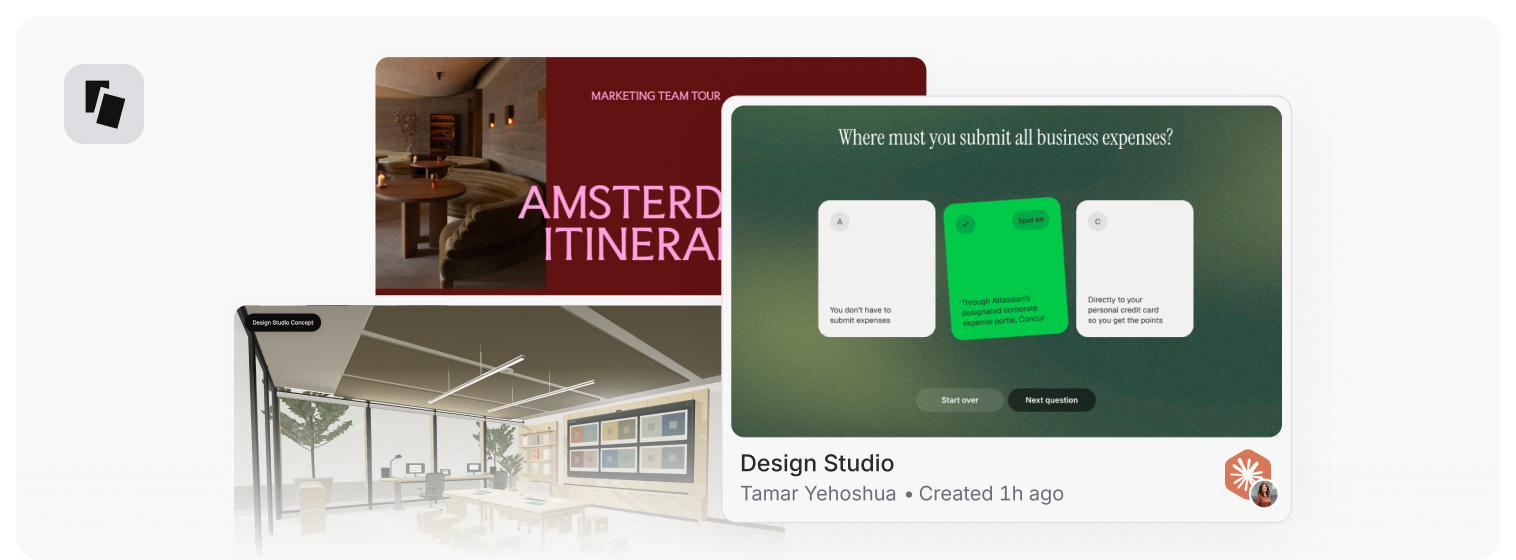
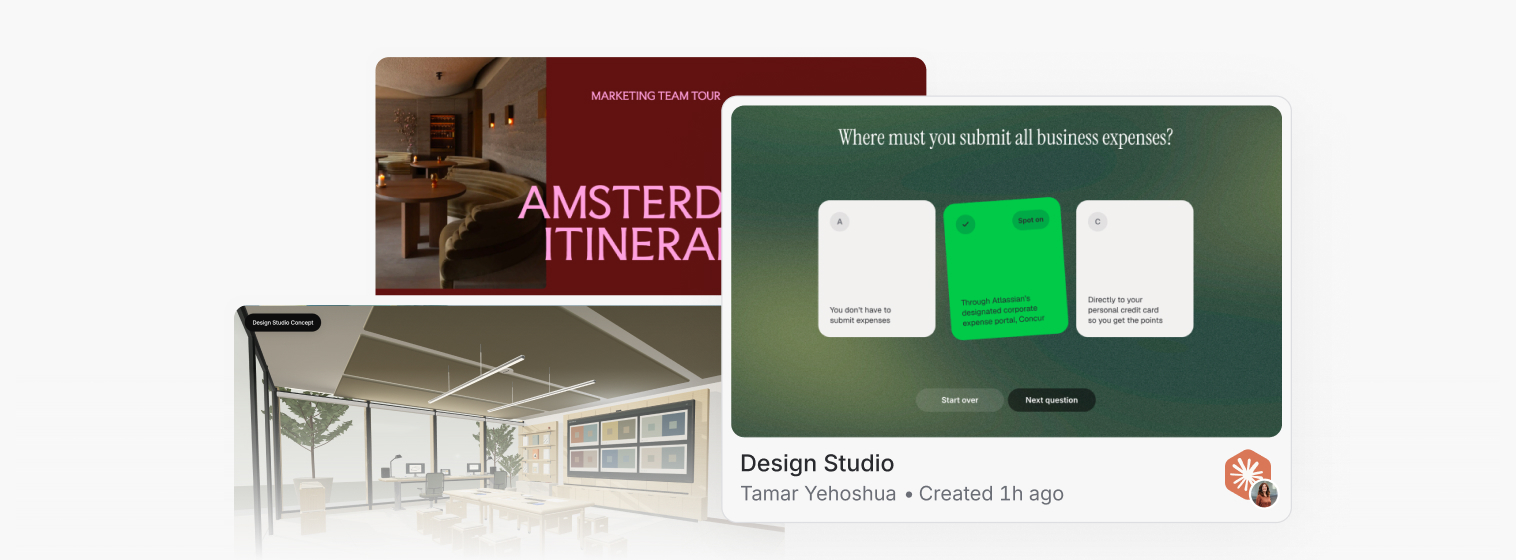
Refresh keynote covers from latest Figma artwork

Changed region(s): [[0.031, 0.0911, 0.093, 0.2732]]

diff --git a/components/projects/jira-team-eu26-end/data/keynote-board.test.js b/components/projects/jira-team-eu26-end/data/keynote-board.test.js
@@ -130,13 +130,12 @@ test("all story covers use reference image assets and the same 140px cover heigh
 	const keynote = await loadKeynoteModule();
 	const cards = keynote.createJiraTeamEu26EndKeynoteBoardColumns().flatMap((column) => column.cards);
 	const slugs = [
-		"artifacts", "rovo-desktop", "data-context", "code-context", "code-context-search", "code-search-app", "rovo-for-work", "people-context", "communications-context",
+		"artifacts", "rovo-desktop", "data-context", "code-context", "code-context", "code-search-app", "rovo-for-work", "people-context", "communications-context",
 		"atlassian-mcp", "loom-desktop", "loom-record-for-agent", "planner", "loom-overlay", "chatgpt-codex-from-jira",
 		"loom-pr-reviews", "eu-ai-inference", "agent-effectiveness", "change-risk-assessment", "agent-identities", "agent-session-tracking",
 		"incident-command-center", "employee-onboarding", "ai-capital-management", "guard-scanning",
 	];
 	const artworkSources = slugs.map((slug) => `/illustration/jira-team-eu26-end/${slug}.jpeg`);
-	artworkSources[slugs.indexOf("people-context")] = "/illustration/jira-team-eu26-end/people-context-solid.svg";
 	assert.deepEqual(cards.map((card) => card.coverImage.src), artworkSources);
 	for (const card of cards) {
 		assert.equal(card.coverImage.maxHeight, 140);
@@ -146,7 +145,8 @@ test("all story covers use reference image assets and the same 140px cover heigh
 		assert.equal(card.coverImage.subheading, undefined);
 		assert.equal(card.coverImage.backgroundPattern, undefined);
 		assert.equal(card.coverImage.backgroundClassName, undefined);
-		assert.equal(card.coverImage.mask?.src, card.coverImage.appSources.length ? `/illustration/jira-team-eu26-end/${card.coverImage.appSources.length > 1 ? "app-stack-mask" : "app-badge-mask"}.svg` : undefined);
+		assert.equal(card.coverImage.mask, undefined);
+		assert.equal(card.coverImage.zoom, undefined);
 		assert.ok(fs.existsSync(path.join(process.cwd(), "public", card.coverImage.src)), card.coverImage.src);
 	}
 });
@@ -291,6 +291,64 @@ test("a retained reference cover repairs stale product marks even when source ID
 	assert.equal(keynote.restoreJiraTeamEu26EndKeynoteCoverArtwork(restored), restored);
 });
 
+test("retained artwork removes obsolete image geometry without changing live board edits", async () => {
+	const keynote = await loadKeynoteModule();
+	const columns = keynote.createJiraTeamEu26EndKeynoteBoardColumns();
+	const card = cardByCode(columns, "TEU-1");
+	columns[0].cards = columns[0].cards.filter((item) => item !== card);
+	card.title = "Edited desktop demo";
+	card.status = "Done";
+	card.agentActivities = [{ id: "live-agent", draft: "Keep this draft" }];
+	card.coverImage = {
+		...card.coverImage,
+		src: "/illustration/jira-team-eu26-end/rovo-desktop.jpeg",
+		alt: "Rehearsal desktop preview",
+		zoom: 379 / 371,
+		mask: { src: "/illustration/jira-team-eu26-end/app-badge-mask.svg", backgroundColor: "#f8f8f8" },
+	};
+	columns[3].cards.push(card);
+	const untouched = columns[0].cards[0];
+	const restored = keynote.restoreJiraTeamEu26EndKeynoteCoverArtwork(columns);
+	const updated = cardByCode(restored, "TEU-1");
+	assert.equal(updated.coverImage.src, "/illustration/jira-team-eu26-end/rovo-desktop.jpeg");
+	assert.equal(updated.coverImage.mask, undefined);
+	assert.equal(updated.coverImage.zoom, undefined);
+	assert.equal(updated.coverImage.fit, "cover");
+	assert.equal(updated.coverImage.alt, "Rehearsal desktop preview");
+	assert.equal(updated.coverImage.maxHeight, 140);
+	assert.deepEqual(updated.coverImage.appSources.map((app) => app.label), ["Rovo"]);
+	assert.equal(updated.title, card.title);
+	assert.equal(updated.status, "Done");
+	assert.equal(updated.agentActivities, card.agentActivities);
+	assert.equal(cardByCode(restored, untouched.code), untouched);
+	assert.equal(card.coverImage.zoom, 379 / 371);
+	assert.equal(card.coverImage.mask.src, "/illustration/jira-team-eu26-end/app-badge-mask.svg");
+	assert.equal(keynote.restoreJiraTeamEu26EndKeynoteCoverArtwork(restored), restored);
+});
+
+test("previous People and duplicate Code Context sources refresh with obsolete image geometry", async () => {
+	const keynote = await loadKeynoteModule();
+	const columns = keynote.createJiraTeamEu26EndKeynoteBoardColumns();
+	cardByCode(columns, "TEU-103").coverImage.src = "/illustration/jira-team-eu26-end/people-context-solid.svg";
+	cardByCode(columns, "TEU-113").coverImage.src = "/illustration/jira-team-eu26-end/code-context-search.jpeg";
+	const planner = cardByCode(columns, "TEU-7");
+	planner.coverImage.mask = { src: "/illustration/jira-team-eu26-end/app-stack-mask.svg", backgroundColor: "#f8f8f8" };
+	planner.coverImage.zoom = 379 / 371;
+	const restored = keynote.restoreJiraTeamEu26EndKeynoteCoverArtwork(columns);
+	for (const [code, source] of [
+		["TEU-103", "people-context.jpeg"],
+		["TEU-113", "code-context.jpeg"],
+		["TEU-7", "planner.jpeg"],
+	]) {
+		const image = cardByCode(restored, code).coverImage;
+		assert.equal(image.src, `/illustration/jira-team-eu26-end/${source}`);
+		assert.equal(image.mask, undefined);
+		assert.equal(image.zoom, undefined);
+	}
+	assert.equal(planner.coverImage.zoom, 379 / 371);
+	assert.equal(keynote.restoreJiraTeamEu26EndKeynoteCoverArtwork(restored), restored);
+});
+
 test("the original Artifacts fade returns on an existing card without replacing board state", async () => {
 	const keynote = await loadKeynoteModule();
 	const columns = keynote.createJiraTeamEu26EndKeynoteBoardColumns();
@@ -318,7 +376,7 @@ test("placeholder captions and the gridded People cover refresh without resettin
 	const unrelated = cardByCode(columns, "TEU-1");
 	const restored = keynote.restoreJiraTeamEu26EndKeynoteCoverArtwork(columns);
 	assert.equal(cardByCode(restored, "TEU-103").title, "People Context");
-	assert.equal(cardByCode(restored, "TEU-103").coverImage.src, "/illustration/jira-team-eu26-end/people-context-solid.svg");
+	assert.equal(cardByCode(restored, "TEU-103").coverImage.src, "/illustration/jira-team-eu26-end/people-context.jpeg");
 	assert.equal(cardByCode(restored, "TEU-103").coverImage.alt, "People Context preview");
 	assert.equal(cardByCode(restored, "TEU-104").title, "Communications Context");
 	assert.equal(cardByCode(restored, "TEU-104").coverImage.alt, "Communications Context preview");

diff --git a/components/projects/jira-team-eu26-end/data/keynote-board.ts b/components/projects/jira-team-eu26-end/data/keynote-board.ts
@@ -8,7 +8,6 @@ export { JIRA_TEAM_EU26_END_HEADER_ASSIGNEES } from "./keynote-presenters";
 
 const KEYNOTE_SECTIONS = ["Context", "Collaboration", "Confidence"] as const;
 const KEYNOTE_COVER_MAX_HEIGHT = 140;
-const KEYNOTE_COVER_IMAGE_ZOOM = 379 / 371;
 
 const COVER_APPS = {
 	studio: { id: "studio", label: "Artifacts", provider: "studio" },
@@ -35,10 +34,10 @@ const KEYNOTE_STORIES = [
 	{ code: "TEU-1", section: "Context", heading: "Rovo\nDesktop", title: "Rovo Desktop", cover: "rovo-desktop.jpeg", apps: [COVER_APPS.rovo], assignee: JIRA_TEAM_EU26_END_PRESENTERS.mcb },
 	{ code: "TEU-101", section: "Context", heading: "Data\nContext", title: "Data Context", cover: "data-context.jpeg", apps: [COVER_APPS.graph], assignee: JIRA_TEAM_EU26_END_PRESENTERS.mcb },
 	{ code: "TEU-2", section: "Context", heading: "Code\nContext", title: "Code Context", cover: "code-context.jpeg", apps: [COVER_APPS.graph], assignee: JIRA_TEAM_EU26_END_PRESENTERS.mcb },
-	{ code: "TEU-113", section: "Context", heading: "Code\nContext", title: "Code Context", cover: "code-context-search.jpeg", apps: [COVER_APPS.graph], assignee: JIRA_TEAM_EU26_END_PRESENTERS.mcb },
+	{ code: "TEU-113", section: "Context", heading: "Code\nContext", title: "Code Context", cover: "code-context.jpeg", apps: [COVER_APPS.graph], assignee: JIRA_TEAM_EU26_END_PRESENTERS.mcb },
 	{ code: "TEU-102", section: "Context", heading: "Code Search\nApp", title: "Code Search App", cover: "code-search-app.jpeg", apps: [COVER_APPS.search], assignee: JIRA_TEAM_EU26_END_PRESENTERS.mcb },
 	{ code: "TEU-3", section: "Context", heading: "Rovo\nFor Work", title: "Rovo For Work", cover: "rovo-for-work.jpeg", apps: [COVER_APPS.rovo], assignee: JIRA_TEAM_EU26_END_PRESENTERS.tamar },
-	{ code: "TEU-103", section: "Context", heading: "People\nContext", title: "People Context", cover: "people-context-solid.svg", apps: [COVER_APPS.graph], assignee: JIRA_TEAM_EU26_END_PRESENTERS.tamar },
+	{ code: "TEU-103", section: "Context", heading: "People\nContext", title: "People Context", cover: "people-context.jpeg", apps: [COVER_APPS.graph], assignee: JIRA_TEAM_EU26_END_PRESENTERS.tamar },
 	{ code: "TEU-104", section: "Context", heading: "Communications\nContext", title: "Communications Context", cover: "communications-context.jpeg", apps: [COVER_APPS.graph], assignee: JIRA_TEAM_EU26_END_PRESENTERS.tamar },
 	{ code: "TEU-105", section: "Collaboration", heading: "Atlassian\nMCP", title: "Atlassian MCP", cover: "atlassian-mcp.jpeg", apps: [COVER_APPS.graph], assignee: JIRA_TEAM_EU26_END_PRESENTERS.sherif },
 	{ code: "TEU-5", section: "Collaboration", heading: "Loom\nDesktop", title: "Loom Desktop", cover: "loom-desktop.jpeg", apps: [COVER_APPS.loom], assignee: JIRA_TEAM_EU26_END_PRESENTERS.mcb },
@@ -95,11 +94,6 @@ function createKeynoteCover(story: typeof KEYNOTE_STORIES[number]) {
 		appSources: story.apps.map((app) => ({ ...app })),
 		maxHeight: KEYNOTE_COVER_MAX_HEIGHT,
 		fit: "cover",
-		zoom: KEYNOTE_COVER_IMAGE_ZOOM,
-		mask: story.apps.length > 0 ? {
-			src: `/illustration/jira-team-eu26-end/${story.apps.length > 1 ? "app-stack-mask" : "app-badge-mask"}.svg`,
-			backgroundColor: "#f8f8f8",
-		} : undefined,
 	} satisfies NonNullable<JiraKanbanCardData["coverImage"]>;
 }
 
@@ -140,11 +134,11 @@ export function restoreJiraTeamEu26EndKeynoteCoverArtwork(columns: readonly Jira
 				coverImage = expected;
 			} else if (cover && (cover.src === expected.src
 				|| (story.code === "TEU-4" && cover.src === "/illustration/jira-team-eu26-end/artifacts-no-fade.png")
-				|| (story.code === "TEU-103" && cover.src === "/illustration/jira-team-eu26-end/people-context.jpeg"))) {
+				|| (story.code === "TEU-113" && cover.src === "/illustration/jira-team-eu26-end/code-context-search.jpeg")
+				|| (story.code === "TEU-103" && cover.src === "/illustration/jira-team-eu26-end/people-context-solid.svg"))) {
 				const authoredAlt = legacy?.title.endsWith(" (Confirm Visual)") === true && cover.alt === `${legacy.title} preview`;
-				if (cover.src !== expected.src || cover.maxHeight !== KEYNOTE_COVER_MAX_HEIGHT || cover.fit !== "cover" || cover.zoom !== KEYNOTE_COVER_IMAGE_ZOOM || !appsMatch(cover.appSources, story.apps)
-					|| cover.mask?.src !== expected.mask?.src || cover.mask?.backgroundColor !== expected.mask?.backgroundColor || authoredAlt) {
-					coverImage = { ...cover, src: expected.src, alt: authoredAlt ? expected.alt : cover.alt, maxHeight: KEYNOTE_COVER_MAX_HEIGHT, fit: "cover", zoom: KEYNOTE_COVER_IMAGE_ZOOM, appSources: expected.appSources, mask: expected.mask };
+				if (cover.src !== expected.src || cover.maxHeight !== KEYNOTE_COVER_MAX_HEIGHT || cover.fit !== "cover" || cover.zoom !== undefined || cover.mask !== undefined || !appsMatch(cover.appSources, story.apps) || authoredAlt) {
+					coverImage = { ...cover, src: expected.src, alt: authoredAlt ? expected.alt : cover.alt, maxHeight: KEYNOTE_COVER_MAX_HEIGHT, fit: "cover", zoom: undefined, mask: undefined, appSources: expected.appSources };
 				}
 			} else if (cover?.heading !== undefined && (cover.maxHeight !== KEYNOTE_COVER_MAX_HEIGHT
 				|| cover.backgroundPattern !== "grid" || !appsMatch(cover.appSources, story.apps))) {

diff --git a/components/blocks/jira-issue/cover-image.test.js b/components/blocks/jira-issue/cover-image.test.js
@@ -111,6 +111,7 @@ test("image covers expose their artwork and selected app logos without typograph
 		},
 	});
 	assert.deepEqual(view.getAllByRole("img").map(accessibleName), ["Loom", "Code context preview"]);
+	assert.equal(view.container.querySelector('[data-slot="jira-issue-cover-app-stack"]').children.length, 1);
 	assert.equal(view.getByRole("img", { name: "Code context preview" }).getAttribute("src"), artwork.src);
 	assert.equal(view.getByRole("img", { name: "Code context preview" }).className, "object-contain");
 	assert.equal(view.container.querySelector('[data-slot="jira-issue-cover-heading"]') === null, true);
@@ -129,6 +130,7 @@ test("image covers expose their artwork and selected app logos without typograph
 		},
 	});
 	assert.deepEqual(view.getAllByRole("img").map(accessibleName), ["Jira", "Confluence", "Teamwork Graph", "Code context preview"]);
+	assert.deepEqual([...view.container.querySelector('[data-slot="jira-issue-cover-app-stack"]').children].map((item) => item.style.transform), ["rotate(0deg)", "rotate(6deg)", "rotate(0deg)"]);
 	assert.equal(view.getByRole("img", { name: "Code context preview" }).className, "object-cover");
 	assert.equal(view.getByRole("img", { name: "Code context preview" }).style.maskMode, "luminance");
 	assert.equal(view.getByRole("img", { name: "Code context preview" }).style.maskSize, "cover");
